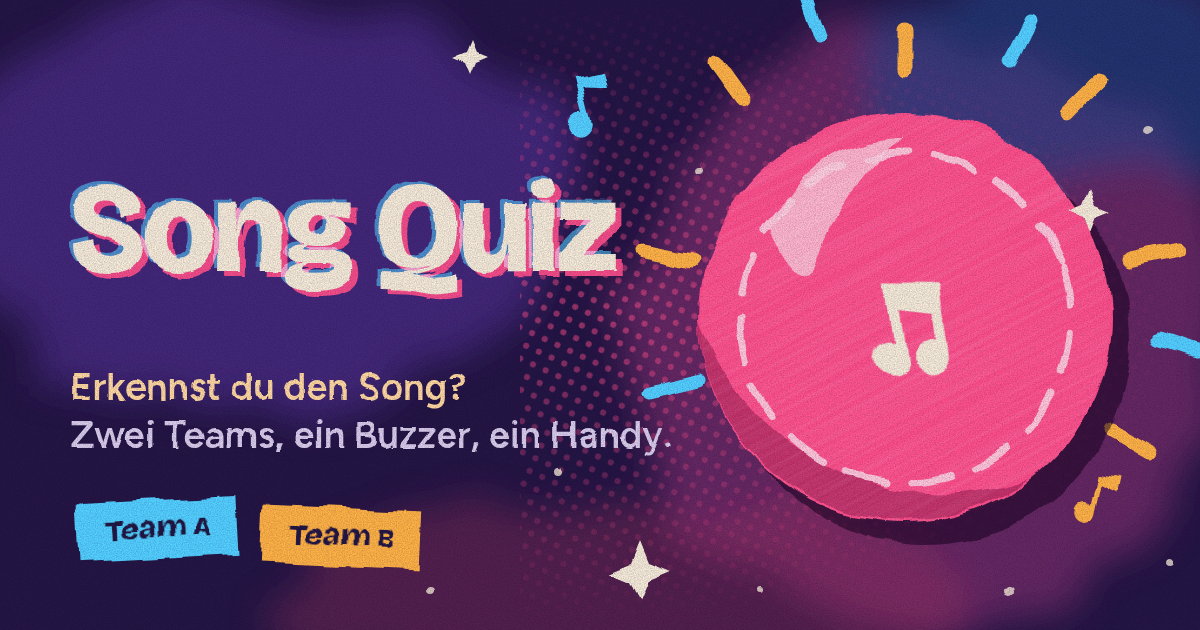
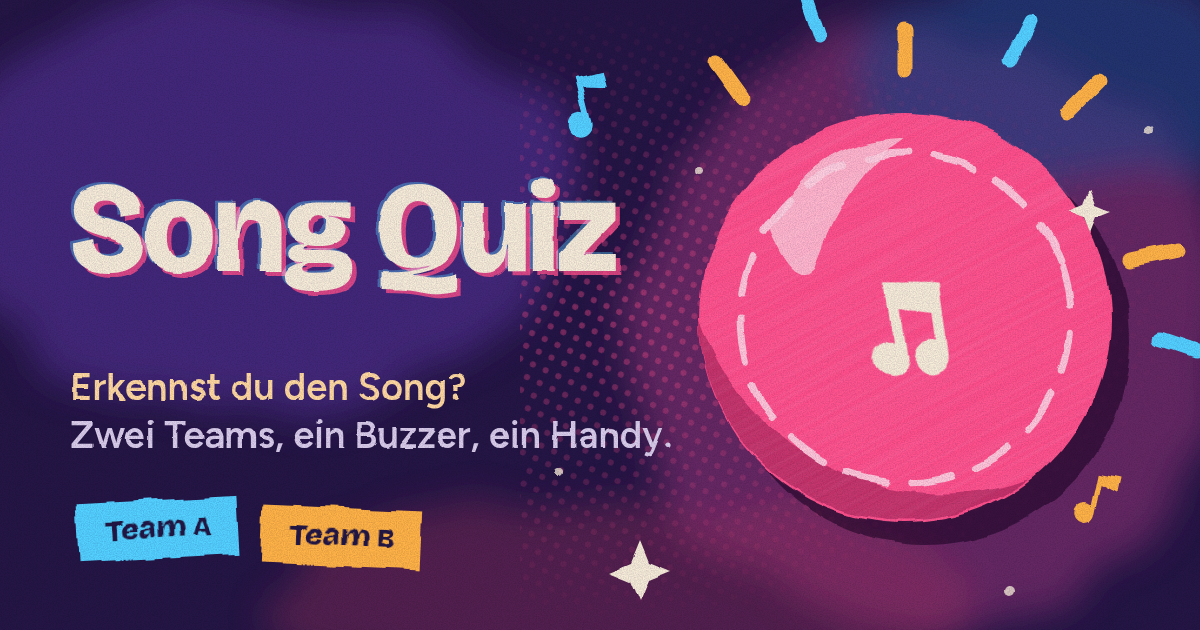
Share image at about 75% strength: less wobble, grain, offset and decoration

diff --git a/scripts/og-card.html b/scripts/og-card.html
@@ -7,15 +7,15 @@ svg.art{position:absolute;inset:0}
 .txt{position:absolute;left:70px;top:165px;width:640px}
 h1{font:800 128px/1 "Bricolage Grotesque",sans-serif;margin:0;letter-spacing:-.015em;position:relative;color:#f6ecd8;filter:url(#rough2)}
 h1 span{position:absolute;left:0;top:0;white-space:nowrap}
-h1 .ghost{color:#ff4f8b;transform:translate(6px,5px);mix-blend-mode:screen;opacity:.95}h1 .ghost2{color:#52d1ff;transform:translate(-4px,-3px);mix-blend-mode:screen;opacity:.6}h1 .main{position:relative;mix-blend-mode:normal}
+h1 .ghost{color:#ff4f8b;transform:translate(4.5px,4px);mix-blend-mode:screen;opacity:.8}h1 .ghost2{color:#52d1ff;transform:translate(-3px,-2px);mix-blend-mode:screen;opacity:.4}h1 .main{position:relative;mix-blend-mode:normal}
 p{margin:34px 0 0;font:600 38px/1.25 Figtree,sans-serif;color:#d9cdea;filter:url(#rough2)}p b{color:#ffd9a0;font-weight:600}
 .stick{position:absolute;font:800 30px "Bricolage Grotesque",sans-serif;padding:10px 28px 12px;color:#241545;filter:url(#rough)}
 </style>
 <svg class="art" width="1200" height="630" viewBox="0 0 1200 630">
 <defs>
- <filter id="rough" x="-5%" y="-5%" width="110%" height="110%"><feTurbulence type="fractalNoise" baseFrequency=".022" numOctaves="2" seed="4" result="n"/><feDisplacementMap in="SourceGraphic" in2="n" scale="14" xChannelSelector="R" yChannelSelector="G"/></filter>
- <filter id="rough2" x="-2%" y="-5%" width="104%" height="110%"><feTurbulence type="fractalNoise" baseFrequency=".05" numOctaves="2" seed="9" result="n"/><feDisplacementMap in="SourceGraphic" in2="n" scale="4" xChannelSelector="R" yChannelSelector="G"/></filter>
- <filter id="wash" x="-20%" y="-20%" width="140%" height="140%"><feTurbulence type="fractalNoise" baseFrequency=".008" numOctaves="3" seed="2" result="n"/><feDisplacementMap in="SourceGraphic" in2="n" scale="90" xChannelSelector="R" yChannelSelector="B"/><feGaussianBlur stdDeviation="18"/></filter>
+ <filter id="rough" x="-5%" y="-5%" width="110%" height="110%"><feTurbulence type="fractalNoise" baseFrequency=".022" numOctaves="2" seed="4" result="n"/><feDisplacementMap in="SourceGraphic" in2="n" scale="10.5" xChannelSelector="R" yChannelSelector="G"/></filter>
+ <filter id="rough2" x="-2%" y="-5%" width="104%" height="110%"><feTurbulence type="fractalNoise" baseFrequency=".05" numOctaves="2" seed="9" result="n"/><feDisplacementMap in="SourceGraphic" in2="n" scale="3" xChannelSelector="R" yChannelSelector="G"/></filter>
+ <filter id="wash" x="-20%" y="-20%" width="140%" height="140%"><feTurbulence type="fractalNoise" baseFrequency=".008" numOctaves="3" seed="2" result="n"/><feDisplacementMap in="SourceGraphic" in2="n" scale="68" xChannelSelector="R" yChannelSelector="B"/><feGaussianBlur stdDeviation="18"/></filter>
  <filter id="grain"><feTurbulence type="fractalNoise" baseFrequency=".85" numOctaves="3" seed="7"/><feColorMatrix values="0 0 0 0 .1  0 0 0 0 .07  0 0 0 0 .2  0 0 0 .9 -.28"/></filter>
  <filter id="streak"><feTurbulence type="fractalNoise" baseFrequency=".004 .22" numOctaves="3" seed="3"/><feColorMatrix values="0 0 0 0 1  0 0 0 0 .95  0 0 0 0 .85  0 0 0 1.6 -.55"/></filter>
  <pattern id="dots" width="14" height="14" patternUnits="userSpaceOnUse" patternTransform="rotate(25)"><circle cx="7" cy="7" r="3.1" fill="#ff4f8b"/></pattern>
@@ -26,11 +26,11 @@ p{margin:34px 0 0;font:600 38px/1.25 Figtree,sans-serif;color:#d9cdea;filter:url
 <!-- painted washes -->
 <g filter="url(#wash)"><ellipse cx="250" cy="200" rx="330" ry="210" fill="#4a2a86" opacity=".8"/><ellipse cx="930" cy="330" rx="300" ry="300" fill="#7a2b6e" opacity=".75"/><ellipse cx="1050" cy="80" rx="200" ry="120" fill="#1f4d8f" opacity=".55"/><ellipse cx="620" cy="600" rx="360" ry="100" fill="#a8335f" opacity=".35"/></g>
 <!-- halftone behind the buzzer -->
-<g mask="url(#halfm)" opacity=".55" transform="translate(0 0)"><rect x="520" y="-10" width="700" height="660" fill="url(#dots)"/></g>
+<g mask="url(#halfm)" opacity=".41" transform="translate(0 0)"><rect x="520" y="-10" width="700" height="660" fill="url(#dots)"/></g>
 <!-- rays: short brush strokes -->
 <g filter="url(#rough)" stroke-linecap="round" fill="none">
- <g stroke="#ffb347" stroke-width="15"><path d="M905 70 L905 28"/><path d="M1068 112 L1098 82"/><path d="M1130 262 L1176 252"/><path d="M1112 430 L1150 452"/><path d="M742 98 L716 62"/><path d="M690 262 L640 252"/></g>
- <g stroke="#52d1ff" stroke-width="13"><path d="M1010 60 L1030 20"/><path d="M820 36 L806 -6"/><path d="M1160 340 L1196 352"/><path d="M700 380 L650 392"/></g>
+ <g stroke="#ffb347" stroke-width="15"><path d="M905 70 L905 28"/><path d="M1068 112 L1098 82"/><path d="M1130 262 L1176 252"/><path d="M742 98 L716 62"/></g>
+ <g stroke="#52d1ff" stroke-width="13"><path d="M1010 60 L1030 20"/><path d="M820 36 L806 -6"/><path d="M1160 340 L1196 352"/></g>
 </g>
 <!-- the buzzer: cut-paper circle, shadow crescent, highlight splotch, brush streaks -->
 <g filter="url(#rough)">
@@ -40,15 +40,15 @@ p{margin:34px 0 0;font:600 38px/1.25 Figtree,sans-serif;color:#d9cdea;filter:url
  <path d="M770 230 q40 -90 135 -92 q-60 40 -90 130 q-20 20 -45 -38z" fill="#ffb3cb"/>
  <circle cx="905" cy="318" r="165" fill="none" stroke="#ffd0e0" stroke-width="7" stroke-dasharray="40 26" stroke-linecap="round" opacity=".9" transform="rotate(-18 905 318)"/>
 </g>
-<g clip-path="url(#bz)" opacity=".35" style="mix-blend-mode:soft-light"><rect x="680" y="100" width="450" height="450" filter="url(#streak)" transform="rotate(-28 905 318)"/></g>
+<g clip-path="url(#bz)" opacity=".26" style="mix-blend-mode:soft-light"><rect x="680" y="100" width="450" height="450" filter="url(#streak)" transform="rotate(-28 905 318)"/></g>
 <!-- music note on the buzzer (cream, painted) -->
 <g filter="url(#rough)" fill="#f6ecd8" transform="translate(905 318) rotate(-8) scale(2.9) translate(-32 -32)"><path d="M27 18v21.5a6.2 6.2 0 1 0 3.6 5.6V28l11 2.8v9.7a6.2 6.2 0 1 0 3.6 5.6V21.2z"/></g>
 <!-- floating notes + stars + snow -->
 <g filter="url(#rough)">
  <g fill="#52d1ff" transform="translate(560 80) rotate(-14) scale(1.5)"><path d="M10 0v26a8 8 0 1 0 4 7V8l14 4V0z" fill="#52d1ff"/></g>
  <g fill="#ffb347" transform="translate(1085 470) rotate(12) scale(1.3)"><path d="M10 0v26a8 8 0 1 0 4 7V8l14 4V0z"/></g>
- <g fill="#f6ecd8"><path d="M640 540 l9 22 22 9 -22 9 -9 22 -9 -22 -22 -9 22 -9z"/><path d="M1090 190 l6 15 15 6 -15 6 -6 15 -6 -15 -15 -6 15 -6z"/><path d="M470 40 l5 12 12 5 -12 5 -5 12 -5 -12 -12 -5 12 -5z"/></g>
- <g fill="#f6ecd8" opacity=".8"><circle cx="700" cy="170" r="4"/><circle cx="1150" cy="130" r="5"/><circle cx="560" cy="470" r="4"/><circle cx="1010" cy="590" r="5"/><circle cx="760" cy="590" r="3"/><circle cx="1170" cy="560" r="4"/><circle cx="430" cy="590" r="4"/></g>
+ <g fill="#f6ecd8"><path d="M640 540 l9 22 22 9 -22 9 -9 22 -9 -22 -22 -9 22 -9z"/><path d="M1090 190 l6 15 15 6 -15 6 -6 15 -6 -15 -15 -6 15 -6z"/></g>
+ <g fill="#f6ecd8" opacity=".8"><circle cx="700" cy="170" r="4"/><circle cx="1150" cy="130" r="5"/><circle cx="560" cy="470" r="4"/><circle cx="1010" cy="590" r="5"/></g>
 </g>
 <!-- orange swash under Quiz -->
 <path filter="url(#rough)" d="M96 428 q150 -30 330 -8 t300 -6" fill="none" stroke="#ffb347" stroke-width="12" stroke-linecap="round" opacity=".0"/>
@@ -60,4 +60,4 @@ p{margin:34px 0 0;font:600 38px/1.25 Figtree,sans-serif;color:#d9cdea;filter:url
 <div class="stick" style="left:78px;top:500px;background:#52d1ff;transform:rotate(-3deg)">Team A</div>
 <div class="stick" style="left:262px;top:508px;background:#ffb347;transform:rotate(2.5deg)">Team B</div>
 <!-- paper grain on everything -->
-<svg class="art" width="1200" height="630" style="mix-blend-mode:multiply;opacity:.55;pointer-events:none"><rect width="1200" height="630" filter="url(#grain)"/></svg>
+<svg class="art" width="1200" height="630" style="mix-blend-mode:multiply;opacity:.41;pointer-events:none"><rect width="1200" height="630" filter="url(#grain)"/></svg>
